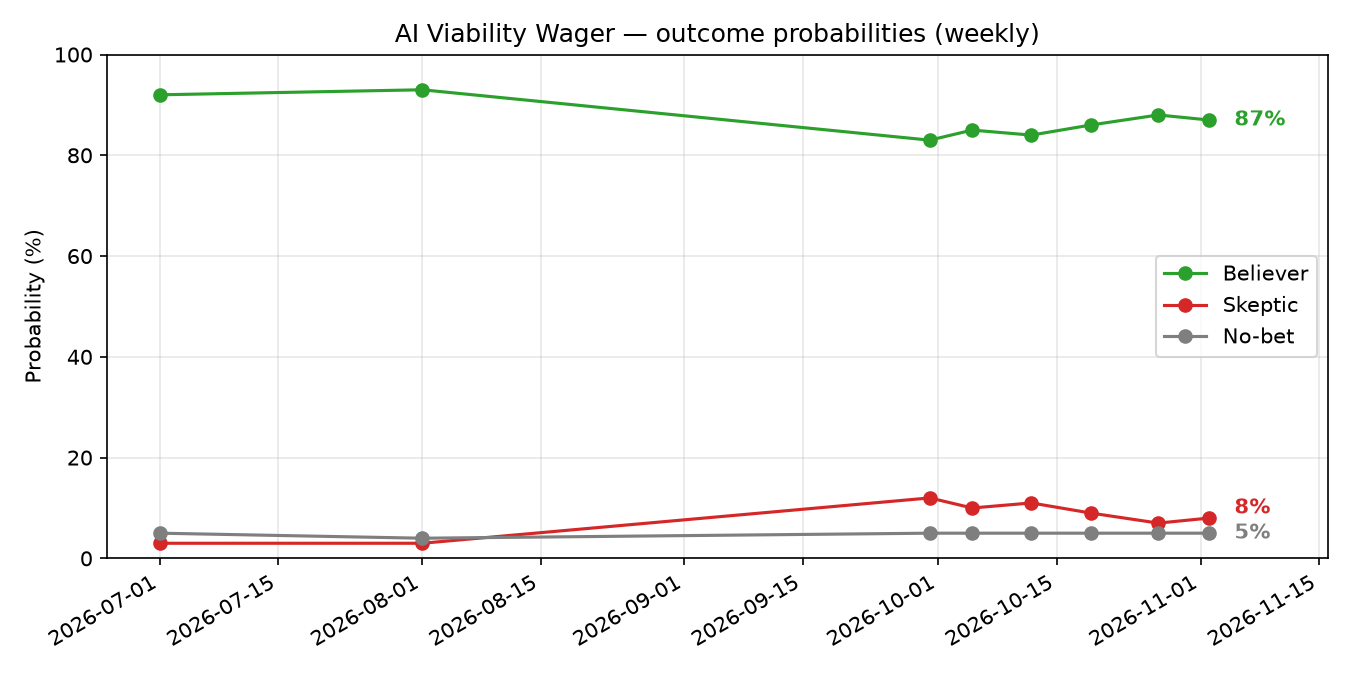
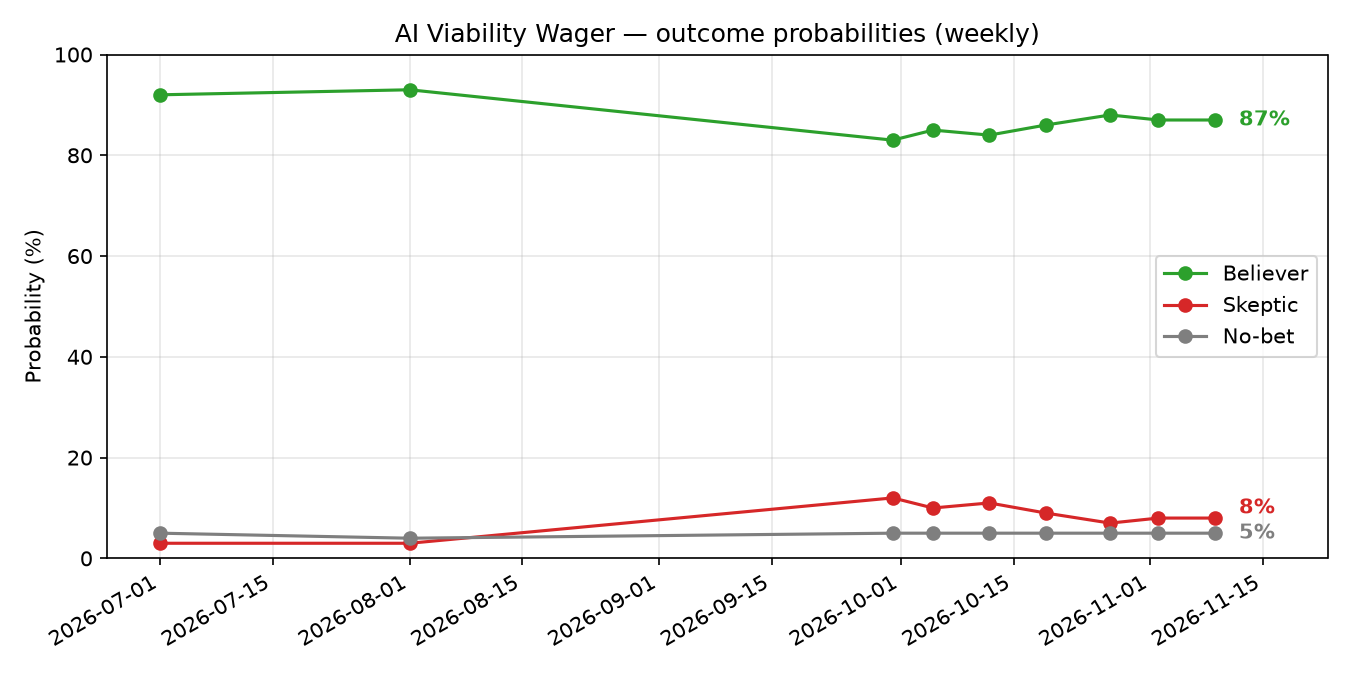
AI Viability Wager: add 2026-11-09 datapoint

diff --git a/ai-wager.md b/ai-wager.md
@@ -27,6 +27,12 @@ title: AI Viability Wager
 
 Newest first.
 
+### Nov 9, 2026
+
+- **Believer**: 87% &nbsp;&nbsp; **Skeptic**: 8% &nbsp;&nbsp; **No‑bet**: 5%
+- OpenAI closed ~$11B, the first tranche of a round now capped near $20B at a $1.25T valuation, with Coatue, T. Rowe Price, SoftBank and an MGX-led UAE syndicate in (Bloomberg, Nov 6).
+- Anthropic is pressing ahead with a pre-Thanksgiving IPO targeting $80B-$100B at $1.25T-$1.75T, down from ~$2T hopes after a tech selloff and a Democratic midterm sweep stoked data-center backlash; its amended S-1 showed Q3 revenue up ~50% to ~$17B and an ~$81B run rate (FT, CNBC, Reuters).
+
 ### Nov 2, 2026
 
 - **Believer**: 87% &nbsp;&nbsp; **Skeptic**: 8% &nbsp;&nbsp; **No‑bet**: 5%
